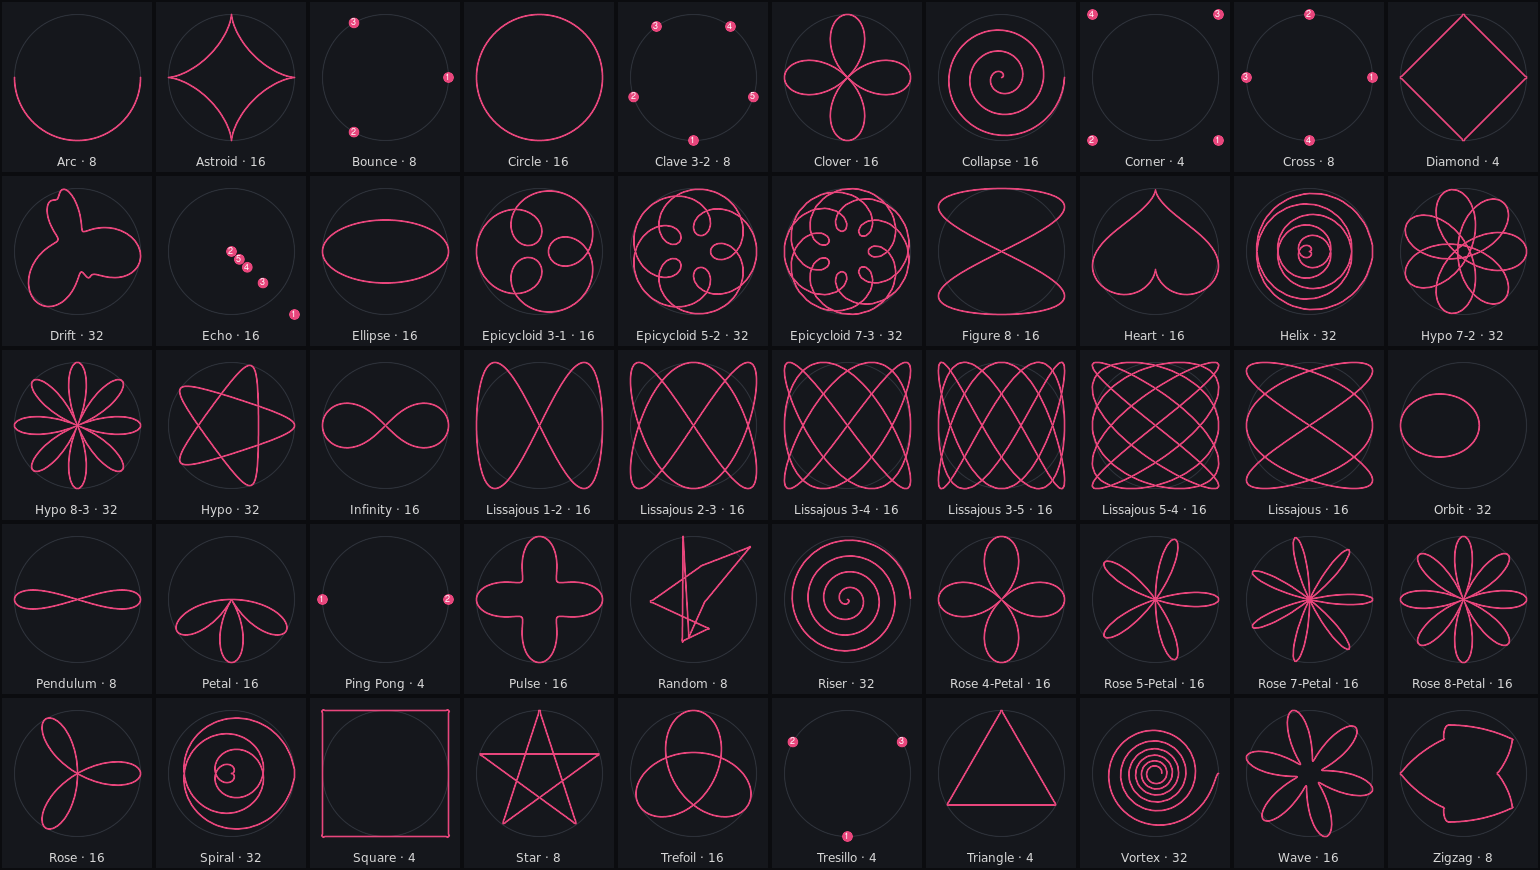
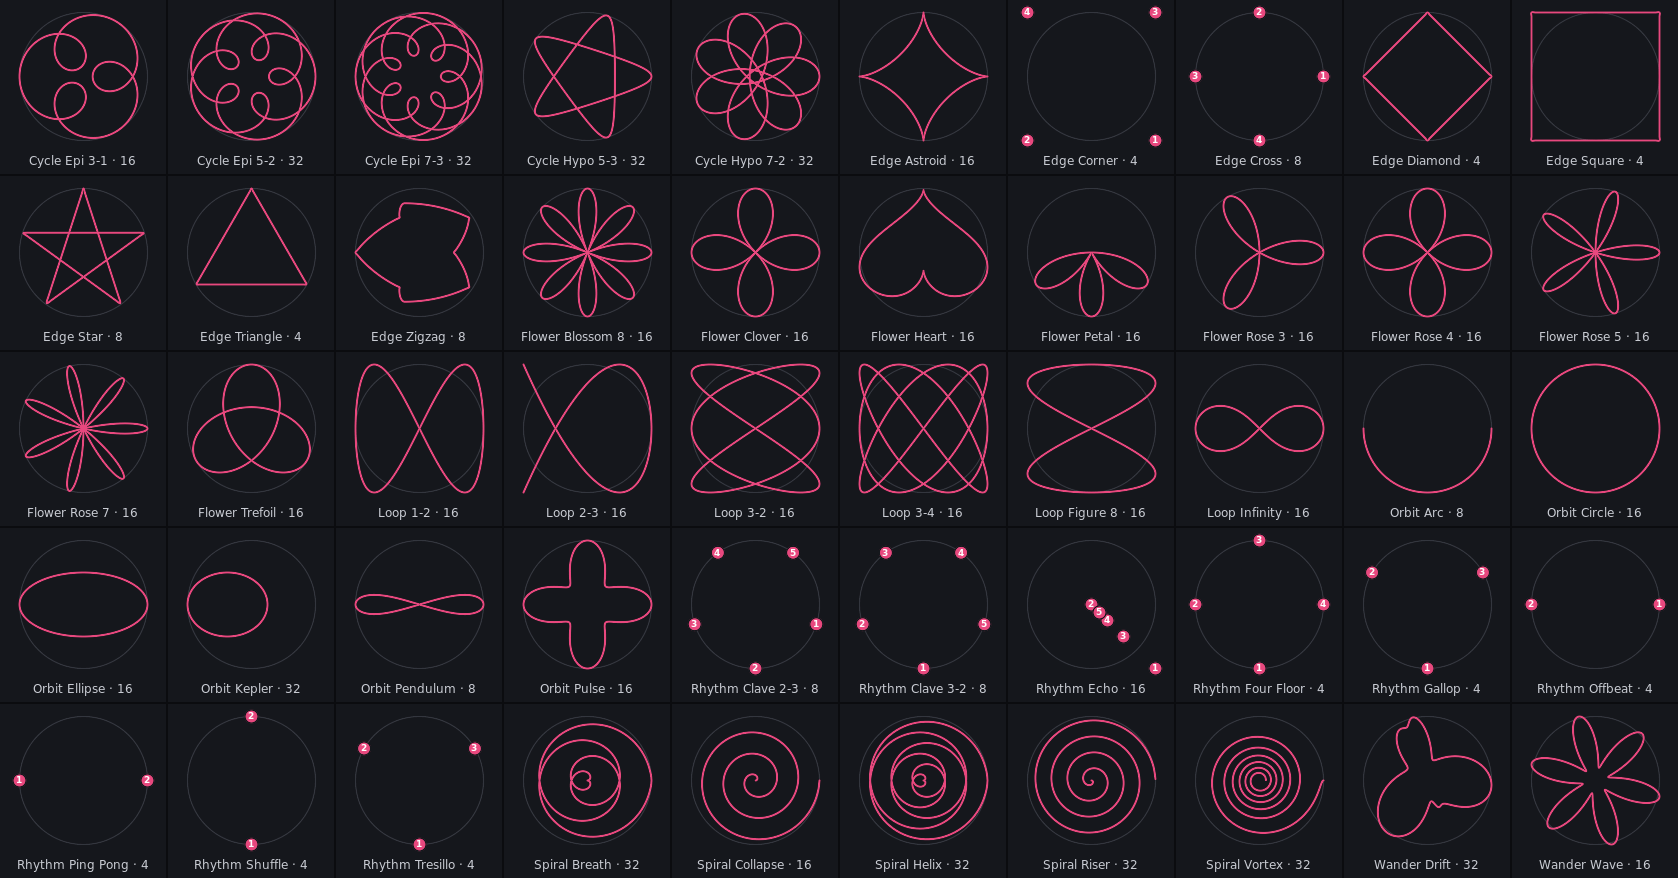
docs(motion): regenerate the fifty-shapes sheet from the v2 library
Drawn from a3-motion-ui's committed pattern/system/*.svg as the device
reads them: the path as stored, the rhythm figures as points numbered in
file order, which is the order they are jumped to. Labels are data-name
and data-beats. The image is back in Shapes (50), and the question about
the stale sheet is answered by it.

diff --git a/src/user/a3motion.md b/src/user/a3motion.md
@@ -1573,9 +1573,7 @@ clips of the next phase, **Load the next set** in FILES.
 
 #### Shapes (50)
 
-<!-- QUESTION (maintainer): the contact sheet a3-motion-shapes-50.png is stale (it shows the library before v2), so it is not shown. Regenerate it, or drop the image? -->
-
-<!-- IMAGE: pics_user/a3-motion-shapes-50.png still shows the library before v2 (Random, Lissajous 3-5, Hypo 8-3 ...). Regenerate it from pattern/system/*.svg, then put it back here: ![All fifty shapes; the rhythm figures are points, numbered in the order they are jumped to](pics_user/a3-motion-shapes-50.png) -->
+![All fifty shapes; the rhythm figures are points, numbered in the order they are jumped to](pics_user/a3-motion-shapes-50.png)
 
 A shape is the path alone — no speed, no height, no width; the clip adds those.
 They are named `<Family> <Name>`. On disk the file name starts with the
